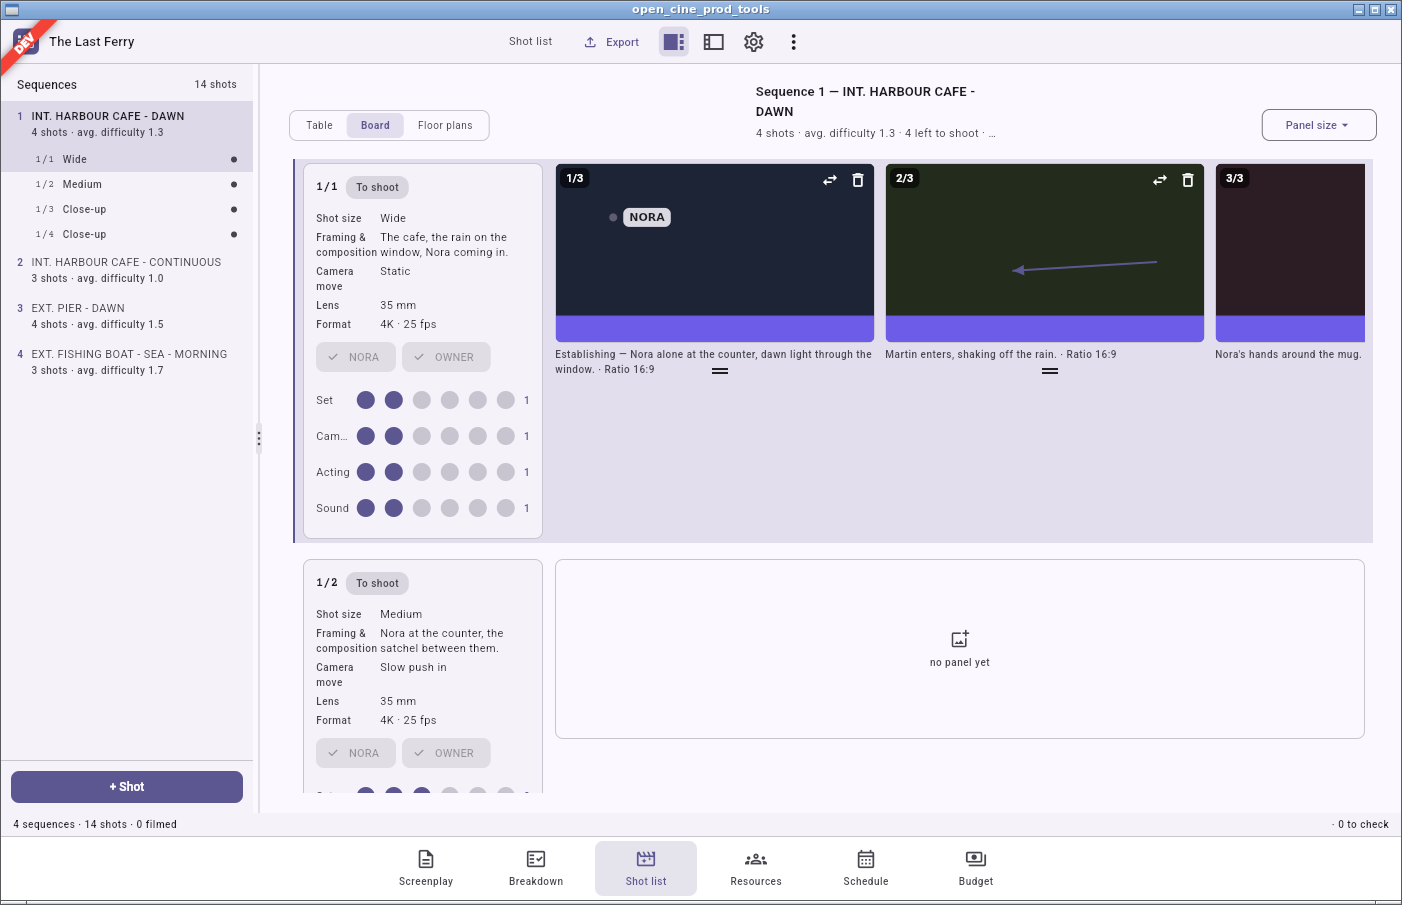
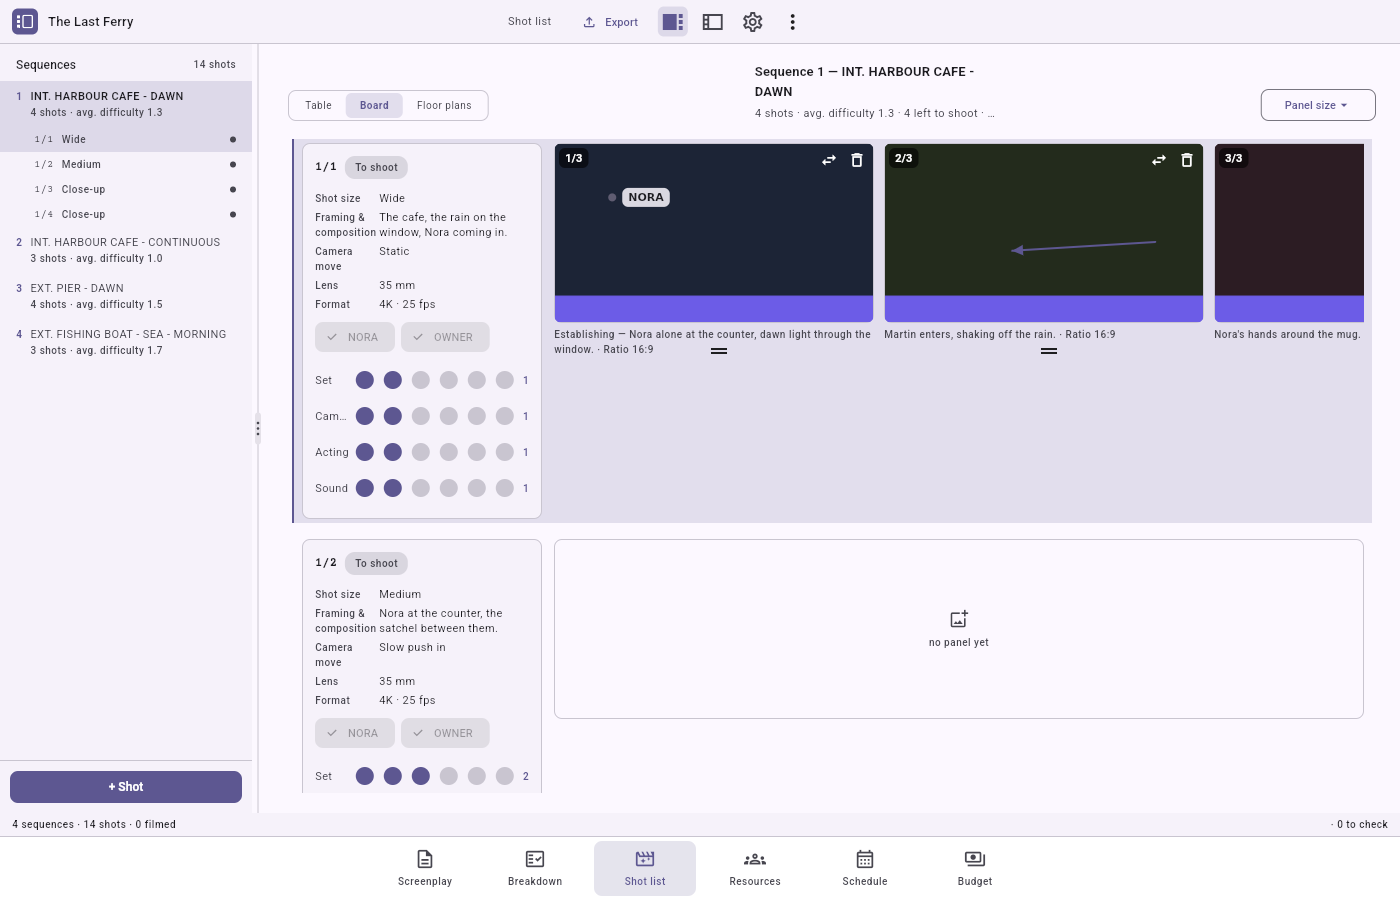
fix(seed): a readable cafe room, recapture shots
The cafe's own floor plan was one giant wall box with the counter
overlapping Nora and the camera outside the room. Symbol placement is
centre-anchored, not corner-anchored, so the walls also crossed at
the origin instead of enclosing anything. Redraws the cafe as four
thin walls around a 6 x 4 m room, a door, a table with two chairs,
and a camera inside aimed at Nora with its field-of-view cone
actually reaching her.

Recaptured both screenshots to match the guide's own style: built the
release bundle with --dart-define=ENV=PROD (the DEV corner banner is
only withheld in a release build of that environment) and captured
through the app's single top-level window instead of the window
manager's own decorated frame, which was adding the title bar.

Claude-Session: https://claude.ai/code/session_01ATe4tkbyG28poYBBWZQv68

diff --git a/test/seed_demo_project.dart b/test/seed_demo_project.dart
@@ -857,21 +857,24 @@ void main() {
       setElementShape: OcptFloorPlanSetElementShape.wall,
     );
 
-    await wall(xM: 0, yM: 0, widthM: 6, heightM: wallThicknessM, label: "Cafe wall, north");
-    await wall(xM: 0, yM: 0, widthM: wallThicknessM, heightM: 4, label: "Cafe wall, west");
-    await wall(xM: 5.88, yM: 0, widthM: wallThicknessM, heightM: 4, label: "Cafe wall, east");
+    // `xM`/`yM` are a symbol's own centre (`Rect.fromCenter` in the canvas painter), not a
+    // corner, so a wall's own centre sits on the room's own perimeter, half its thickness either
+    // side of it.
+    await wall(xM: 3, yM: 0, widthM: 6, heightM: wallThicknessM, label: "Cafe wall, north");
+    await wall(xM: 0, yM: 2, widthM: wallThicknessM, heightM: 4, label: "Cafe wall, west");
+    await wall(xM: 6, yM: 2, widthM: wallThicknessM, heightM: 4, label: "Cafe wall, east");
     // The south wall stops short twice, once on each side of the door below.
     await wall(
-      xM: 0,
-      yM: 3.88,
-      widthM: 4,
+      xM: 1.9,
+      yM: 4,
+      widthM: 3.8,
       heightM: wallThicknessM,
       label: "Cafe wall, south-west",
     );
     await wall(
-      xM: 5.4,
-      yM: 3.88,
-      widthM: 0.6,
+      xM: 5.6,
+      yM: 4,
+      widthM: 0.8,
       heightM: wallThicknessM,
       label: "Cafe wall, south-east",
     );
@@ -881,8 +884,8 @@ void main() {
       sceneId: null,
       shotId: null,
       layer: OcptFloorPlanLayer.set,
-      xM: 4,
-      yM: 3.88,
+      xM: 4.5,
+      yM: 4,
       widthM: 1.4,
       heightM: wallThicknessM,
       label: "Cafe door",
@@ -895,8 +898,8 @@ void main() {
       sceneId: null,
       shotId: null,
       layer: OcptFloorPlanLayer.set,
-      xM: 1,
-      yM: 0.3,
+      xM: 2.25,
+      yM: 0.5,
       widthM: 2.5,
       heightM: 0.5,
       label: "Counter",
@@ -912,8 +915,8 @@ void main() {
       sceneId: sceneIds[1],
       shotId: null,
       layer: OcptFloorPlanLayer.set,
-      xM: 1.3,
-      yM: 0.5,
+      xM: 2.55,
+      yM: 0.7,
       widthM: 2.5,
       heightM: 0.5,
       label: "Counter, cleared for the second visit",
@@ -928,8 +931,8 @@ void main() {
       sceneId: null,
       shotId: null,
       layer: OcptFloorPlanLayer.set,
-      xM: 4.1,
-      yM: 1.7,
+      xM: 4.6,
+      yM: 2,
       widthM: 1,
       heightM: 1,
       label: "Table",
@@ -941,7 +944,7 @@ void main() {
       sceneId: null,
       shotId: null,
       layer: OcptFloorPlanLayer.set,
-      xM: 3.6,
+      xM: 4.1,
       yM: 1.3,
       widthM: 0.4,
       heightM: 0.4,
@@ -970,11 +973,11 @@ void main() {
       sceneId: null,
       shotId: shotsByScene[0]!.first,
       layer: OcptFloorPlanLayer.cameras,
-      xM: 2,
-      yM: 3.4,
+      xM: 2.25,
+      yM: 3.2,
       // rotationDeg defaults to 0, which already points local "up" (north) — straight at Nora.
       fovDeg: 50,
-      fovReachM: 3,
+      fovReachM: 2.6,
     );
     await floorPlanService.placeSymbol(
       database: database,
@@ -982,8 +985,8 @@ void main() {
       sceneId: null,
       shotId: shotsByScene[0]!.first,
       layer: OcptFloorPlanLayer.characters,
-      xM: 2,
-      yM: 0.9,
+      xM: 2.25,
+      yM: 1,
       label: "NORA",
     );
 
